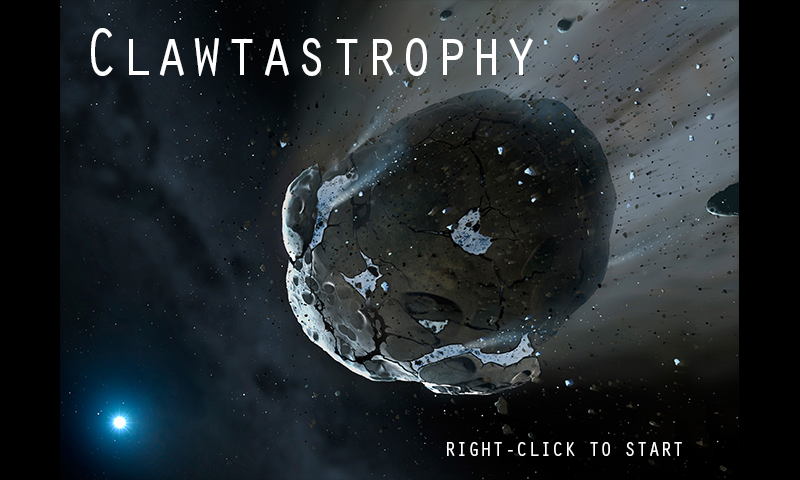
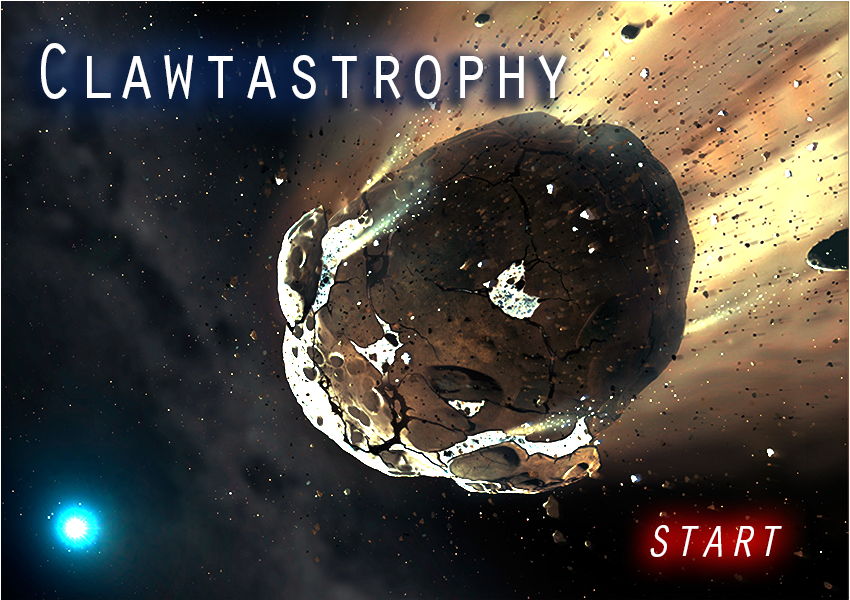
added intro text and control screen
skippable by hitting enter on start screen

diff --git a/Claw/clawMain.cs b/Claw/clawMain.cs
@@ -80,6 +80,8 @@ namespace Claw
         Texture2D texture;
         Texture2D mouseTex;
         Texture2D clawRestImg;
+        Texture2D introScreen;
+        Texture2D controlScreen;
         SpriteFont font;
 
         Vector2 mouseCoords;
@@ -111,6 +113,8 @@ namespace Claw
         bool once = true;
         bool gameOver = false;
         bool spawnStatic = false;
+        bool isIntro = false;
+        bool isControl = false;
 
         private Texture2D background;
         double spawnTimer;
@@ -203,8 +207,10 @@ namespace Claw
             gameOverScreen = Content.Load<Texture2D>("gameover.png");
             mHealthBar = Content.Load<Texture2D>("healthbar_temp3.png");
             healthText = Content.Load<Texture2D>("health text.png");
-            mTitleScreenBackground = Content.Load<Texture2D>("startscreen3.png");
+            mTitleScreenBackground = Content.Load<Texture2D>("startscreen.png");
             mIsTitleScreenShown = true;
+            introScreen = Content.Load<Texture2D>("intro text.png");
+            controlScreen = Content.Load<Texture2D>("controlscreen.png");
 
             //audio
             bgmusic = Content.Load<SoundEffect>("fairytailark.wav");
@@ -385,15 +391,39 @@ namespace Claw
             // TODO: Unload any non ContentManager content here
         }
 
-  
+        private void updateControlScreen()
+        {
+            if (Keyboard.GetState().IsKeyDown(Keys.Enter) == true)
+            {
+                isControl = false;
+                isIntro = false;
+                mIsTitleScreenShown = false;
+                startGame = true;
+            }
+            return;
+        }
+
+        private void updateIntroScreen()
+        {
+
+            if (Keyboard.GetState().IsKeyDown(Keys.Enter) == true || Mouse.GetState().RightButton == ButtonState.Pressed)
+            {
+                isIntro = false;
+                mIsTitleScreenShown = false;
+                isControl = true;
+            }
+            return;
+        }
+
         private void UpdateTitleScreen()
         {
              
-            if (Keyboard.GetState().IsKeyDown(Keys.Enter) == true || Mouse.GetState().RightButton == ButtonState.Pressed)
+            if (Keyboard.GetState().IsKeyDown(Keys.Enter) == true || Mouse.GetState().LeftButton == ButtonState.Pressed)
             {
-                startGame = true;
+                isIntro = true;
                 mIsTitleScreenShown = false;
             }
+            return;
         }
 
         private void updateClawBodyPosition()
@@ -433,10 +463,20 @@ namespace Claw
                 UpdateTitleScreen();
                 return;
             }
-            if (Keyboard.GetState().IsKeyDown(Keys.Space) == true)
+            //if (Keyboard.GetState().IsKeyDown(Keys.Space) == true)
+            //{
+            //   Vector2 multFactor = new Vector2(1.05f, 1.05f);
+            //   claw.clawHead.body.LinearVelocity = Vector2.Multiply(multFactor, claw.clawHead.body.LinearVelocity);
+            //}
+            else if(isIntro)
             {
-                Vector2 multFactor = new Vector2(1.05f, 1.05f);
-                claw.clawHead.body.LinearVelocity = Vector2.Multiply(multFactor, claw.clawHead.body.LinearVelocity);
+                updateIntroScreen();
+                return;
+            }
+            else if(isControl)
+            {
+                updateControlScreen();
+                return;
             }
             else if (startGame)
             {
@@ -688,7 +728,7 @@ namespace Claw
                         if (mCurrentHealth > 100)
                             mCurrentHealth = 100;
                     }
-                    else if (vitList[j].Position.Y >= (float) this.Window.ClientBounds.Center.Y)
+                    else if (vitList[j].Position.Y >= (float) this.Window.ClientBounds.Center.Y+100)
                     {
                         vitList[j].Destroy();
                         vitList.RemoveAt(j);        
@@ -769,8 +809,90 @@ namespace Claw
            if(mIsTitleScreenShown)
            {
                DrawTitleScreen();
+               spriteBatch.Draw(this.mouseTex, this.mouseCoords, null, Color.White, 0.0f, this.mouseCoords, 0.05f, SpriteEffects.None, 0.0f);
                spriteBatch.End();
                return;
+           }
+             
+           else if(isIntro)
+           {
+               spriteBatch.Draw(introScreen, new Rectangle(0, 0, GraphicsDevice.PresentationParameters.BackBufferWidth, GraphicsDevice.PresentationParameters.BackBufferHeight), Color.White);
+               spriteBatch.End();
+               return;
+           }
+           else if(isControl)
+           {
+               spriteBatch.Draw(controlScreen, new Rectangle(0, 0, GraphicsDevice.PresentationParameters.BackBufferWidth, GraphicsDevice.PresentationParameters.BackBufferHeight), Color.White);
+               spriteBatch.End();
+               return;
+           }
+           else if (startGame)
+           {
+
+               //background
+               spriteBatch.Draw(background, new Rectangle(0, 0, GraphicsDevice.PresentationParameters.BackBufferWidth, GraphicsDevice.PresentationParameters.BackBufferHeight), Color.White);
+
+               //health text
+               spriteBatch.Draw(healthText, new Rectangle(10, 5, healthText.Bounds.Width, healthText.Bounds.Height), Color.White);
+
+               //draw the negative space for the health bar
+               spriteBatch.Draw(mHealthBar, new Rectangle(this.Window.ClientBounds.Width / 5 + 4 - mHealthBar.Width / 2,
+                   30, mHealthBar.Width, 30), new Rectangle(0, 30, mHealthBar.Width, 30), Color.Gray);
+               //draw the current health level based on the current Health
+               spriteBatch.Draw(mHealthBar, new Rectangle((this.Window.ClientBounds.Width / 5 + 4 - mHealthBar.Width / 2),
+                   30, (int)(mHealthBar.Width * ((double)mCurrentHealth / 100)), 30), new Rectangle(0, 30, mHealthBar.Width, 30), Color.Red);
+
+               //draw box around health bar
+               spriteBatch.Draw(mHealthBar, new Rectangle(this.Window.ClientBounds.Width / 5 + 4 - mHealthBar.Width / 2,
+                   30, mHealthBar.Width, 30), new Rectangle(0, 0, mHealthBar.Width, 30), Color.White);
+
+               foreach (DrawablePhysicsObject staticObj in staticList)
+               {
+                   float transparency = 1 - (float)((float)gameTime.TotalGameTime.TotalMilliseconds - (float)lastStaticResetTime) / (float)staticResetTimer;
+                   staticObj.Draw(spriteBatch, staticDrawFactor.X, staticDrawFactor.Y, transparency, true);
+               }
+
+               foreach (DrawablePhysicsObject rubble in rubbleList)
+               {
+
+                   rubbleImg = Content.Load<Texture2D>("Rubble.png");
+                   rubble.Draw(spriteBatch, staticDrawFactor.X, staticDrawFactor.Y);
+               }
+
+               foreach (DrawablePhysicsObject health in vitList)
+               {
+                   vitImg = Content.Load<Texture2D>("Health.png");
+                   //need to calculate transparency value based on its location and height
+                   float transparency = 2f * ((float)this.Window.ClientBounds.Center.Y+100 - health.Position.Y) / (float)this.Window.ClientBounds.Center.Y;
+
+                   health.Draw(spriteBatch, transparency);
+               }
+               if (claw != null && claw.clawInAction)
+               {
+                   claw.Draw(spriteBatch);
+               }
+               if (claw.clawInAction)
+               {
+
+                   foreach (DrawablePhysicsObject clawSeg in claw.clawSegmentList)
+                   {
+                       clawSeg.Draw(spriteBatch);
+                       int length = claw.clawSegmentList.Count;
+                   }
+               }
+
+               floor.Draw(spriteBatch);
+               leftWall.Draw(spriteBatch);
+               rightWall.Draw(spriteBatch);
+
+               clawBody.Draw(spriteBatch);
+               player1.Draw(spriteBatch);
+               spriteBatch.Draw(this.mouseTex, this.mouseCoords, null, Color.White, 0.0f, this.mouseCoords, 0.05f, SpriteEffects.None, 0.0f);
+
+               spriteBatch.DrawString(font, "Score:" + expSys.totalExperience, new Vector2(20, 70), Color.White);
+
+               
+               spriteBatch.End();
            }
            else if(gameOver)
            {
@@ -793,74 +915,7 @@ namespace Claw
                spriteBatch.DrawString(font, "Your Score:" + expSys.totalExperience, new Vector2(135, 405), Color.Green);
                spriteBatch.End();
            }
-           else if(startGame)
-           {
-
-               //background
-               spriteBatch.Draw(background, new Rectangle(0, 0, GraphicsDevice.PresentationParameters.BackBufferWidth, GraphicsDevice.PresentationParameters.BackBufferHeight), Color.White);
-
-               //health text
-               spriteBatch.Draw(healthText, new Rectangle(10, 5, healthText.Bounds.Width, healthText.Bounds.Height), Color.White);
-
-               //draw the negative space for the health bar
-               spriteBatch.Draw(mHealthBar, new Rectangle(this.Window.ClientBounds.Width / 5 + 4 - mHealthBar.Width / 2,
-                   30, mHealthBar.Width, 30), new Rectangle(0, 30, mHealthBar.Width, 30), Color.Gray);
-               //draw the current health level based on the current Health
-               spriteBatch.Draw(mHealthBar, new Rectangle((this.Window.ClientBounds.Width / 5 + 4 - mHealthBar.Width / 2),
-                   30, (int)(mHealthBar.Width * ((double)mCurrentHealth / 100)), 30), new Rectangle(0, 30, mHealthBar.Width, 30), Color.Red);
-
-               //draw box around health bar
-               spriteBatch.Draw(mHealthBar, new Rectangle(this.Window.ClientBounds.Width / 5 + 4 - mHealthBar.Width / 2,
-                   30, mHealthBar.Width, 30), new Rectangle(0, 0, mHealthBar.Width, 30), Color.White);
-
-               foreach (DrawablePhysicsObject staticObj in staticList)
-               {
-                   float transparency = 1- (float)((float)gameTime.TotalGameTime.TotalMilliseconds - (float)lastStaticResetTime) / (float)staticResetTimer;
-                   staticObj.Draw(spriteBatch, staticDrawFactor.X, staticDrawFactor.Y, transparency, true);
-               }
-
-               foreach (DrawablePhysicsObject rubble in rubbleList)
-               {
-
-                   rubbleImg = Content.Load<Texture2D>("Rubble.png");
-                   rubble.Draw(spriteBatch, staticDrawFactor.X, staticDrawFactor.Y);
-               }
-
-               foreach (DrawablePhysicsObject health in vitList)
-               {
-                   vitImg = Content.Load<Texture2D>("Health.png");
-                   //need to calculate transparency value based on its location and height
-                   float transparency = 2f*((float)this.Window.ClientBounds.Center.Y - health.Position.Y) / (float)this.Window.ClientBounds.Center.Y;
-
-                   health.Draw(spriteBatch, transparency);
-               }
-               if (claw != null && claw.clawInAction)
-               {
-                   claw.Draw(spriteBatch);
-               }
-               if (claw.clawInAction)
-               {
-            
-                   foreach (DrawablePhysicsObject clawSeg in claw.clawSegmentList)
-                   {
-                       clawSeg.Draw(spriteBatch);
-                       int length = claw.clawSegmentList.Count;
-                   }
-               }
-
-               floor.Draw(spriteBatch);
-               leftWall.Draw(spriteBatch);
-               rightWall.Draw(spriteBatch);
-              
-               clawBody.Draw(spriteBatch);
-               player1.Draw(spriteBatch);
-               spriteBatch.Draw(this.mouseTex, this.mouseCoords, null, Color.White, 0.0f, this.mouseCoords, 0.05f, SpriteEffects.None, 0.0f);
-
-               spriteBatch.DrawString(font, "Score:" + expSys.totalExperience, new Vector2(20, 70), Color.White);
-              
-               base.Draw(gameTime);
-               spriteBatch.End();
-           }
+           base.Draw(gameTime);
         }
     }
 
